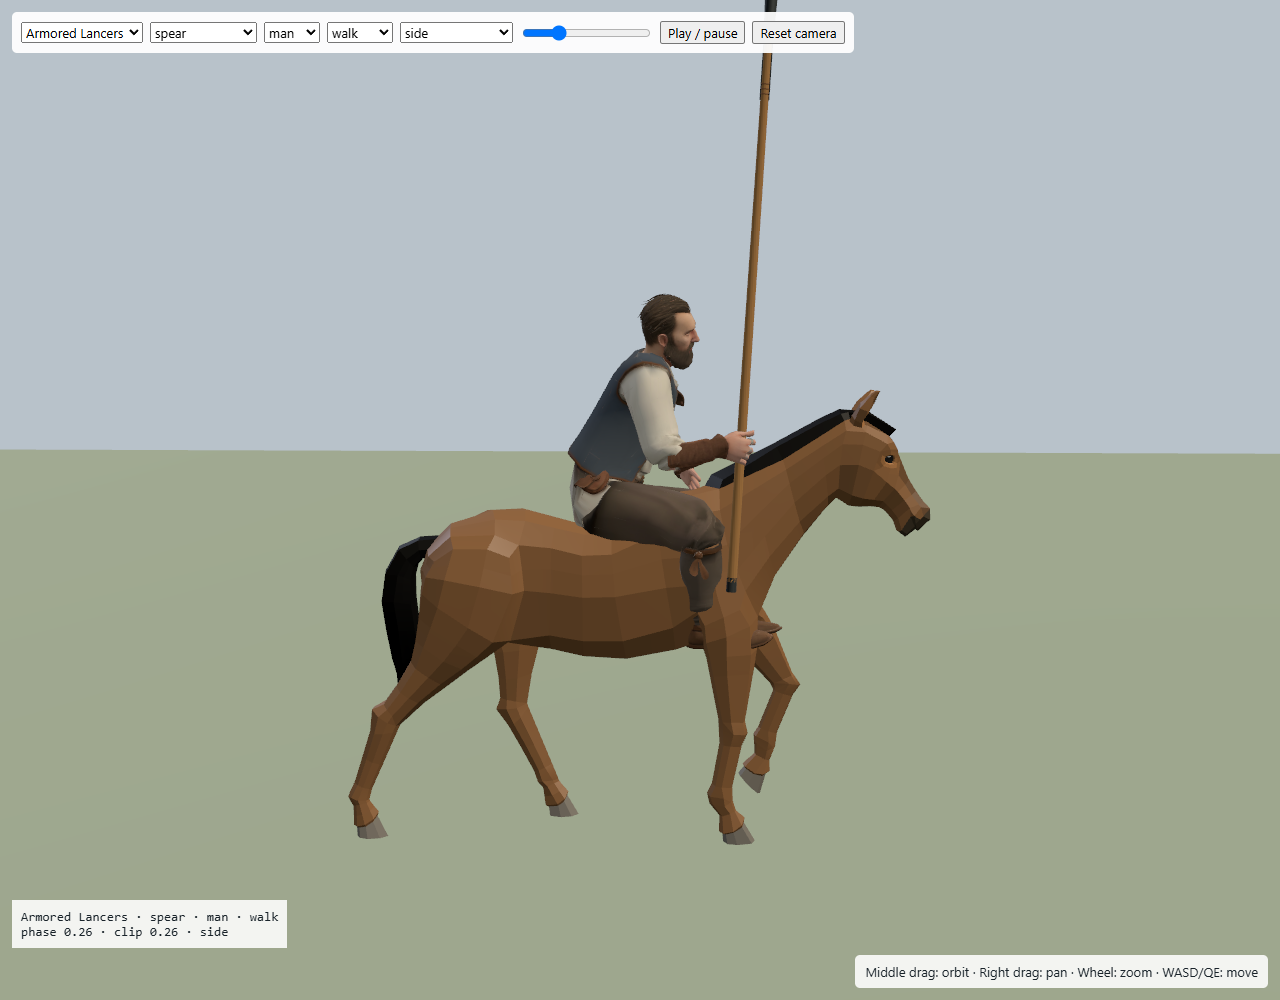
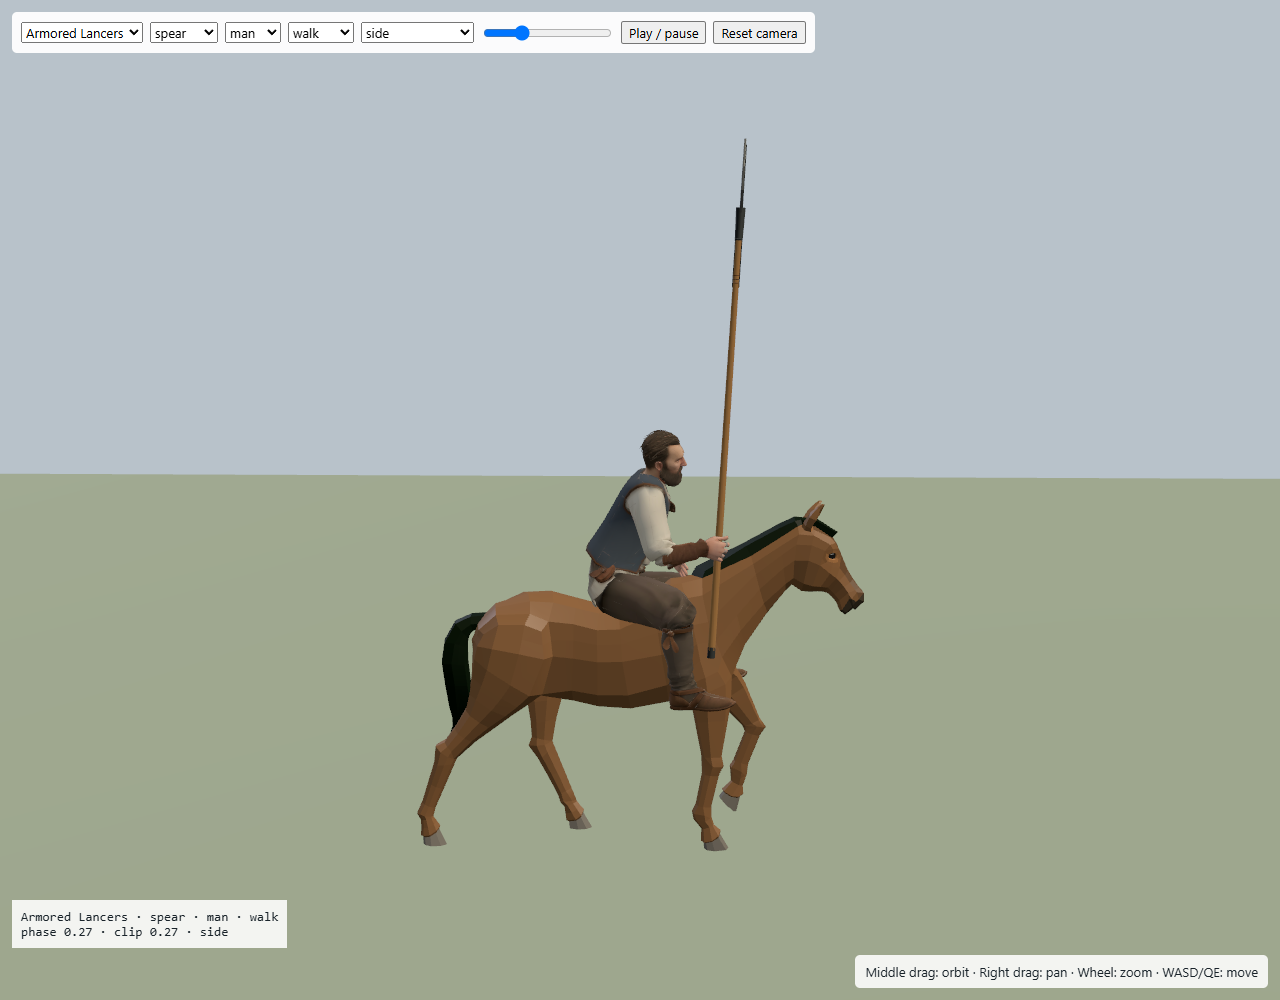
Improve mounted unit preview validation and riding poses

Changed region(s): [[0.0, 0.0, 1.0, 0.868], [0.1875, 0.031, 0.3125, 0.062], [0.375, 0.0, 0.4375, 0.062]]

diff --git a/src/dev/weapon-review.ts b/src/dev/weapon-review.ts
@@ -7,20 +7,23 @@ import { resetCombatWeaponRig, resolveCombatWeaponPresentation } from '../settle
 import { CameraController } from '../camera/CameraController.ts';
 import { CombatProjectileRenderer } from '../settlement/CombatProjectileRenderer.ts';
 import { CavalryHorseRenderer, CAVALRY_SADDLE_HEIGHT, type CavalryHorsePose } from '../settlement/CavalryHorseRenderer.ts';
+import { restoreMountedRidingPose } from '../settlement/mountedRidingPose.ts';
 
 const REVIEW_VARIANTS=['man','raider'] as const;
 const REVIEW_UNITS={
- 'on-foot':{label:'On foot',weapon:'sidearm',horse:null},
- hussars:{label:'Hussars',weapon:'spear-shield',horse:'hussar'},
- 'armored-lancers':{label:'Armored Lancers',weapon:'spear',horse:'lancer'},
- 'mounted-archers':{label:'Mounted Archers',weapon:'bow',horse:'archer'},
+ 'on-foot':{label:'On foot',weapons:MILITARY_EQUIPMENT_KINDS,horse:null},
+ hussars:{label:'Hussars',weapons:['spear-shield','sidearm-shield'],horse:'hussar'},
+ 'armored-lancers':{label:'Armored Lancers',weapons:['spear','sidearm'],horse:'lancer'},
+ 'mounted-archers':{label:'Mounted Archers',weapons:['bow','sidearm'],horse:'archer'},
 } as const;
 type ReviewUnit=keyof typeof REVIEW_UNITS;
 type ReviewState={unit:ReviewUnit;weapon:string;variant:typeof REVIEW_VARIANTS[number];mode:string;phase:number;time:number;view:string;seed:number;paused:boolean;standard:boolean};
 const params=new URLSearchParams(location.search);
 const requestedUnit=params.get('unit')??'on-foot';
 const initialUnit:ReviewUnit=Object.hasOwn(REVIEW_UNITS,requestedUnit)?requestedUnit as ReviewUnit:'on-foot';
-const state:ReviewState={unit:initialUnit,weapon:initialUnit==='on-foot'?params.get('weapon')??'sidearm':REVIEW_UNITS[initialUnit].weapon,variant:initialUnit==='on-foot'&&params.get('variant')==='raider'?'raider':'man',mode:params.get('mode')??'walk',phase:Number(params.get('phase')??.5),time:Number(params.get('time')??.35),view:params.get('view')??'front',seed:Number(params.get('seed')??431),paused:params.get('play')!=='1',standard:params.has('standard')};
+const initialWeapons:readonly string[]=REVIEW_UNITS[initialUnit].weapons;
+const requestedWeapon=params.get('weapon')??(initialUnit==='on-foot'?'sidearm':initialWeapons[0]!);
+const state:ReviewState={unit:initialUnit,weapon:initialWeapons.includes(requestedWeapon)?requestedWeapon:initialWeapons[0]!,variant:initialUnit==='on-foot'&&params.get('variant')==='raider'?'raider':'man',mode:params.get('mode')??'walk',phase:Number(params.get('phase')??.5),time:Number(params.get('time')??.35),view:params.get('view')??'front',seed:Number(params.get('seed')??431),paused:params.get('play')!=='1',standard:params.has('standard')};
 const scene=new THREE.Scene();scene.background=new THREE.Color('#b8c2ca');
 const renderer=new WebGPURenderer({antialias:true});renderer.setPixelRatio(1);renderer.setSize(innerWidth,innerHeight);document.body.append(renderer.domElement);await renderer.init();
 const camera=new THREE.PerspectiveCamera(38,innerWidth/innerHeight,.02,100);
@@ -97,6 +100,7 @@ function pose(frozen=false,dt=0){
  const visual=rig();
  if(frozen&&visual){
   if(visual.combatRig)resetCombatWeaponRig(visual.combatRig);
+  restoreMountedRidingPose(visual.mountedRig);
   visual.mixer.stopAllAction();
   const action=visual.actions[visual.actionMode];action.reset().setEffectiveWeight(1).play();
   const seatedTime=villagerStaticSeatedPoseTime(visual.actionMode,state.seed,action.getClip().duration);
@@ -163,7 +167,8 @@ function stats(){
  const visual=rig();const r=visual?.combatRig;
  const horse=horseRig();
  const bones=r?Object.fromEntries(Object.entries(r.armBones).map(([name,b])=>[name,(b as THREE.Bone).getWorldPosition(new THREE.Vector3()).toArray()])):{};
- return {ready:true,state:{...state},frame,errors:[...errors],bones,mounted:agent().mounted,rider:{action:visual?.actionMode,y:visual?.root.position.y,time:visual?.actions[visual.actionMode].time},horse:horse?{mode:horse.mode,time:horse.actions[horse.mode].time,position:horse.root.position.toArray(),presentation:REVIEW_UNITS[state.unit].horse}:null,backend:renderer.backend.constructor.name,drawCalls:renderer.info.render.calls,triangles:renderer.info.render.triangles,memory:renderer.info.memory,camera:{position:camera.position.toArray(),target:cameraController.getTargetPosition().toArray(),distance:cameraController.getOrbitDistance(),yaw:cameraController.getYaw(),userAdjusted:cameraUserAdjusted}};
+ const legs=visual?Object.fromEntries(['L_Calf','R_Calf','L_Foot','R_Foot'].map(name=>[name,visual.model.getObjectByName(name)?.getWorldPosition(new THREE.Vector3()).toArray()])):{};
+ return {ready:true,state:{...state},frame,errors:[...errors],bones,mounted:agent().mounted,rider:{action:visual?.actionMode,y:visual?.root.position.y,time:visual?.actions[visual.actionMode].time,legs},horse:horse?{mode:horse.mode,time:horse.actions[horse.mode].time,position:horse.root.position.toArray(),presentation:REVIEW_UNITS[state.unit].horse}:null,backend:renderer.backend.constructor.name,drawCalls:renderer.info.render.calls,triangles:renderer.info.render.triangles,memory:renderer.info.memory,camera:{position:camera.position.toArray(),target:cameraController.getTargetPosition().toArray(),distance:cameraController.getOrbitDistance(),yaw:cameraController.getYaw(),userAdjusted:cameraUserAdjusted}};
 }
 function render(){renderer.render(scene,camera);frame++;document.body.dataset.weaponReviewCamera=JSON.stringify({position:camera.position.toArray(),target:orbitTarget.toArray(),distance:cameraController.getOrbitDistance(),yaw:cameraController.getYaw(),userAdjusted:cameraUserAdjusted});document.querySelector('#status')!.textContent=`${REVIEW_UNITS[state.unit].label} · ${state.weapon} · ${state.variant} · ${state.mode}\nphase ${state.phase.toFixed(2)} · clip ${state.time.toFixed(2)} · ${state.view}\n${errors.join('\n')}`;}
 function set(patch:Partial<ReviewState>){
@@ -171,10 +176,18 @@ function set(patch:Partial<ReviewState>){
  if(patch.unit!==undefined&&!Object.hasOwn(REVIEW_UNITS,patch.unit))throw new Error('Unknown army unit preview.');
  patch={...patch};
  if(patch.unit!==undefined&&patch.unit!=='on-foot'){
-  patch.weapon=REVIEW_UNITS[patch.unit].weapon;patch.variant='man';
- }else if(patch.unit===undefined&&(patch.weapon!==undefined||patch.variant==='raider'))patch.unit='on-foot';
+  patch.weapon??=REVIEW_UNITS[patch.unit].weapons[0];patch.variant='man';
+ }else if(patch.unit===undefined&&patch.variant==='raider')patch.unit='on-foot';
+ const unit=patch.unit??state.unit;
+ const weapons:readonly string[]=REVIEW_UNITS[unit].weapons;
+ if(patch.weapon!==undefined&&!weapons.includes(patch.weapon))throw new Error(`${REVIEW_UNITS[unit].label} cannot equip ${patch.weapon}.`);
  const resetCamera=!cameraInitialized||['unit','weapon','variant','mode','view','standard'].some(key=>Object.hasOwn(patch,key));
  Object.assign(state,patch);clock=state.phase;
+ const weaponSelect=document.querySelector<HTMLSelectElement>('select[data-key="weapon"]')!;
+ if(weaponSelect.dataset.unit!==state.unit){
+  weaponSelect.replaceChildren(...weapons.map(weapon=>new Option(weapon,weapon)));
+  weaponSelect.dataset.unit=state.unit;
+ }
  for(const el of document.querySelectorAll<HTMLSelectElement>('select[data-key]'))el.value=String(state[el.dataset.key as keyof ReviewState]);
  phase.value=String(state.phase);
  pose(true);

diff --git a/src/settlement/SettlementCrowdRenderer.ts b/src/settlement/SettlementCrowdRenderer.ts
@@ -57,6 +57,7 @@ import {
 import { configureVillagerMaterialLighting } from './villagerMaterialLighting.ts';
 import { locomotionAnimationTimeScale } from './locomotionAnimation.ts';
 import { installMilitaryHandGrip } from './militaryHandGrip.ts';
+import { applyMountedRidingPose, bindMountedRidingRig, restoreMountedRidingPose, type MountedRidingRig } from './mountedRidingPose.ts';
 import type {
   ClericAnimationMode,
   ClericAuthoredAnimationName,
@@ -141,6 +142,7 @@ type AnimatedVillager = {
   mode: VillagerRenderMode;
   actionMode: VillagerRenderMode;
   combatRig: CombatWeaponRig | null;
+  mountedRig: MountedRidingRig | null;
   skeleton: THREE.Skeleton;
   /** Last locomotion speed already published to the three authored leg cycles. */
   movementSpeed: number;
@@ -844,6 +846,7 @@ export class SettlementCrowdRenderer {
       visual.root.position.set(agent.x, agent.y, agent.z);
       visual.root.rotation.y = agent.yaw + MODEL_YAW_OFFSET;
       if (visual.combatRig) restoreCombatWeaponPose(visual.combatRig);
+      restoreMountedRidingPose(visual.mountedRig);
       const nextActionMode = combatBaseActionMode(agent);
       if (visual.mode !== agent.mode || visual.actionMode !== nextActionMode) {
         this.transition(visual, agent.mode, nextActionMode, agent.appearanceSeed);
@@ -871,6 +874,7 @@ export class SettlementCrowdRenderer {
         this.lastMixerUpdates += 1;
       }
       this.applyCombatPresentation(visual, agent, dt);
+      if (agent.mounted && visual.actionMode === 'sit') applyMountedRidingPose(visual.mountedRig);
       if (visual.tool) {
         setWorkerToolDropped(visual.tool, Boolean(agent.battlefieldWeaponDrop));
       }
@@ -1046,6 +1050,7 @@ export class SettlementCrowdRenderer {
       mode: agent.mode,
       actionMode,
       combatRig,
+      mountedRig: agent.variant === 'man' ? bindMountedRidingRig(model) : null,
       skeleton,
       movementSpeed: agent.movementSpeed,
       animationRateScale,
@@ -1085,6 +1090,7 @@ export class SettlementCrowdRenderer {
       agent.appearanceSeed,
     );
     if (visual.combatRig) resetCombatWeaponRig(visual.combatRig);
+    restoreMountedRidingPose(visual.mountedRig);
     visual.root.name = `${sourceKey === 'cleric' ? 'Cleric' : sourceKey === 'raider' ? 'Ottoman raider' : agent.variant === 'woman' ? 'Woman' : 'Man'} villager ${agent.id}`;
     visual.root.userData.villagerId = agent.id;
     visual.root.userData.villagerGender = agent.variant;

diff --git a/src/settlement/mountedRidingPose.ts b/src/settlement/mountedRidingPose.ts
@@ -1,0 +1,48 @@
+import * as THREE from 'three';
+
+export type MountedRidingRig = {
+  model: THREE.Object3D;
+  joints: { bone: THREE.Bone; base: THREE.Quaternion; axis: 'y' | 'z'; angle: number }[];
+  applied: boolean;
+  modelRotation: THREE.Quaternion;
+  parentInverse: THREE.Quaternion;
+  offset: THREE.Quaternion;
+  axis: THREE.Vector3;
+};
+
+/** Open the seated thighs and let the boots hang outside the horse's barrel. */
+export function bindMountedRidingRig(model: THREE.Object3D): MountedRidingRig | null {
+  const joints: MountedRidingRig['joints'] = [];
+  for (const [name, axis, angle] of [
+    ['L_Thigh', 'y', .30], ['R_Thigh', 'y', -.30],
+    ['L_Calf', 'z', .14], ['R_Calf', 'z', -.14],
+  ] as const) {
+    const bone = model.getObjectByName(name) as THREE.Bone | undefined;
+    if (!bone?.isBone) return null;
+    joints.push({ bone, base: new THREE.Quaternion(), axis, angle });
+  }
+  return { model, joints, applied: false, modelRotation: new THREE.Quaternion(),
+    parentInverse: new THREE.Quaternion(), offset: new THREE.Quaternion(), axis: new THREE.Vector3() };
+}
+
+/** Restore before the mixer evaluates so the correction never accumulates. */
+export function restoreMountedRidingPose(rig: MountedRidingRig | null): void {
+  if (!rig?.applied) return;
+  for (const { bone, base } of rig.joints) bone.quaternion.copy(base);
+  rig.applied = false;
+}
+
+export function applyMountedRidingPose(rig: MountedRidingRig | null): void {
+  if (!rig) return;
+  restoreMountedRidingPose(rig);
+  rig.model.getWorldQuaternion(rig.modelRotation);
+  for (const { bone, base, axis, angle } of rig.joints) {
+    base.copy(bone.quaternion);
+    bone.parent!.getWorldQuaternion(rig.parentInverse).invert();
+    rig.axis.set(0, axis === 'y' ? 1 : 0, axis === 'z' ? 1 : 0)
+      .applyQuaternion(rig.modelRotation).applyQuaternion(rig.parentInverse);
+    rig.offset.setFromAxisAngle(rig.axis, angle);
+    bone.quaternion.premultiply(rig.offset).normalize();
+  }
+  rig.applied = true;
+}
